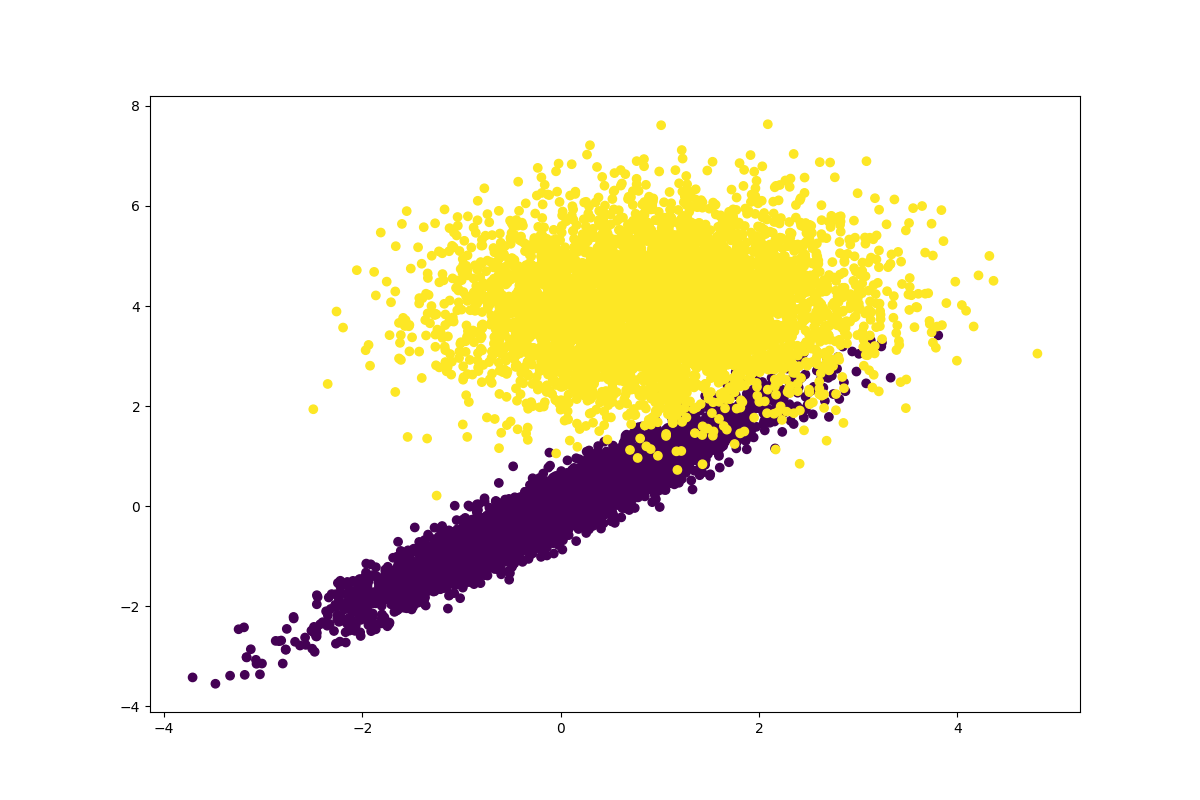
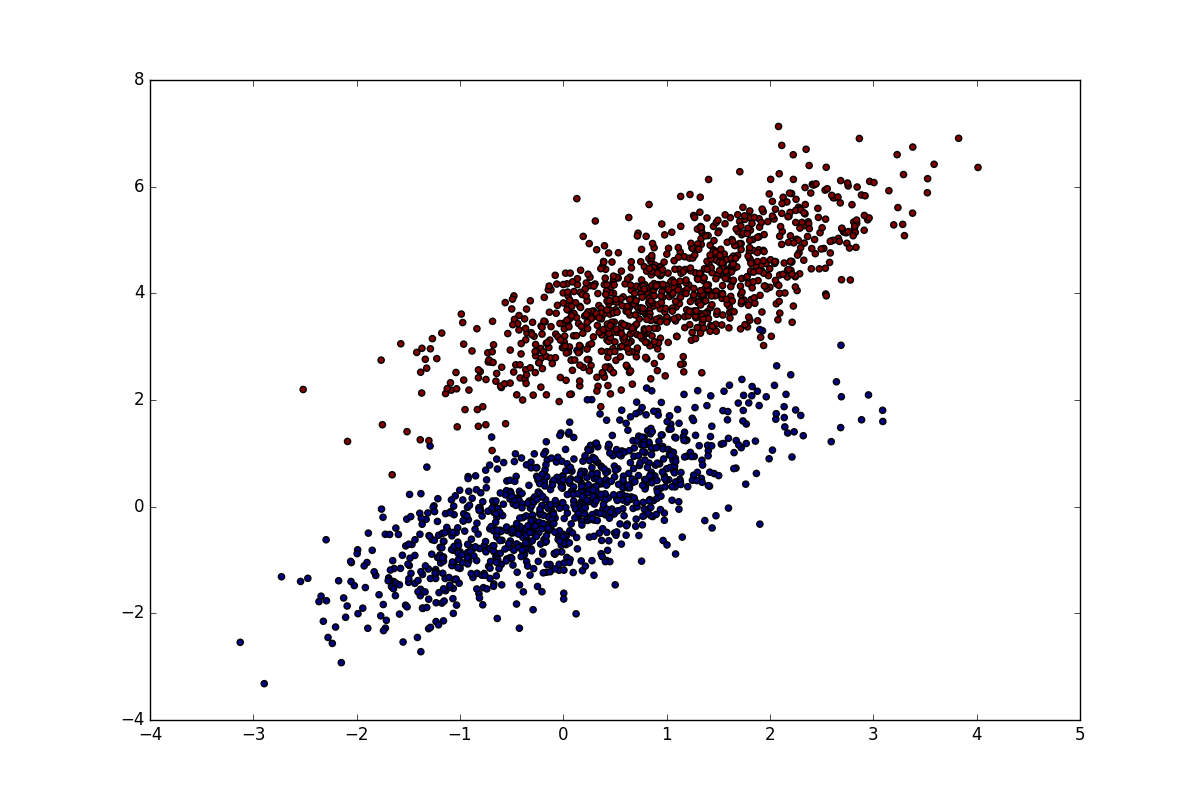
test.py and temp.png are modified

diff --git a/test.py b/test.py
@@ -3,8 +3,8 @@ from models import gen_data
 import numpy as np
 
 features, targets = gen_data.gaussian_data(5000)
-clf = models.GaussianNB()
-clf.fit(features, targets)
+clf = models.LogisticRegression()
+clf.fit(features, targets, add_intercept=True)
 
 t_features, t_targets = gen_data.gaussian_data(1000)
 
